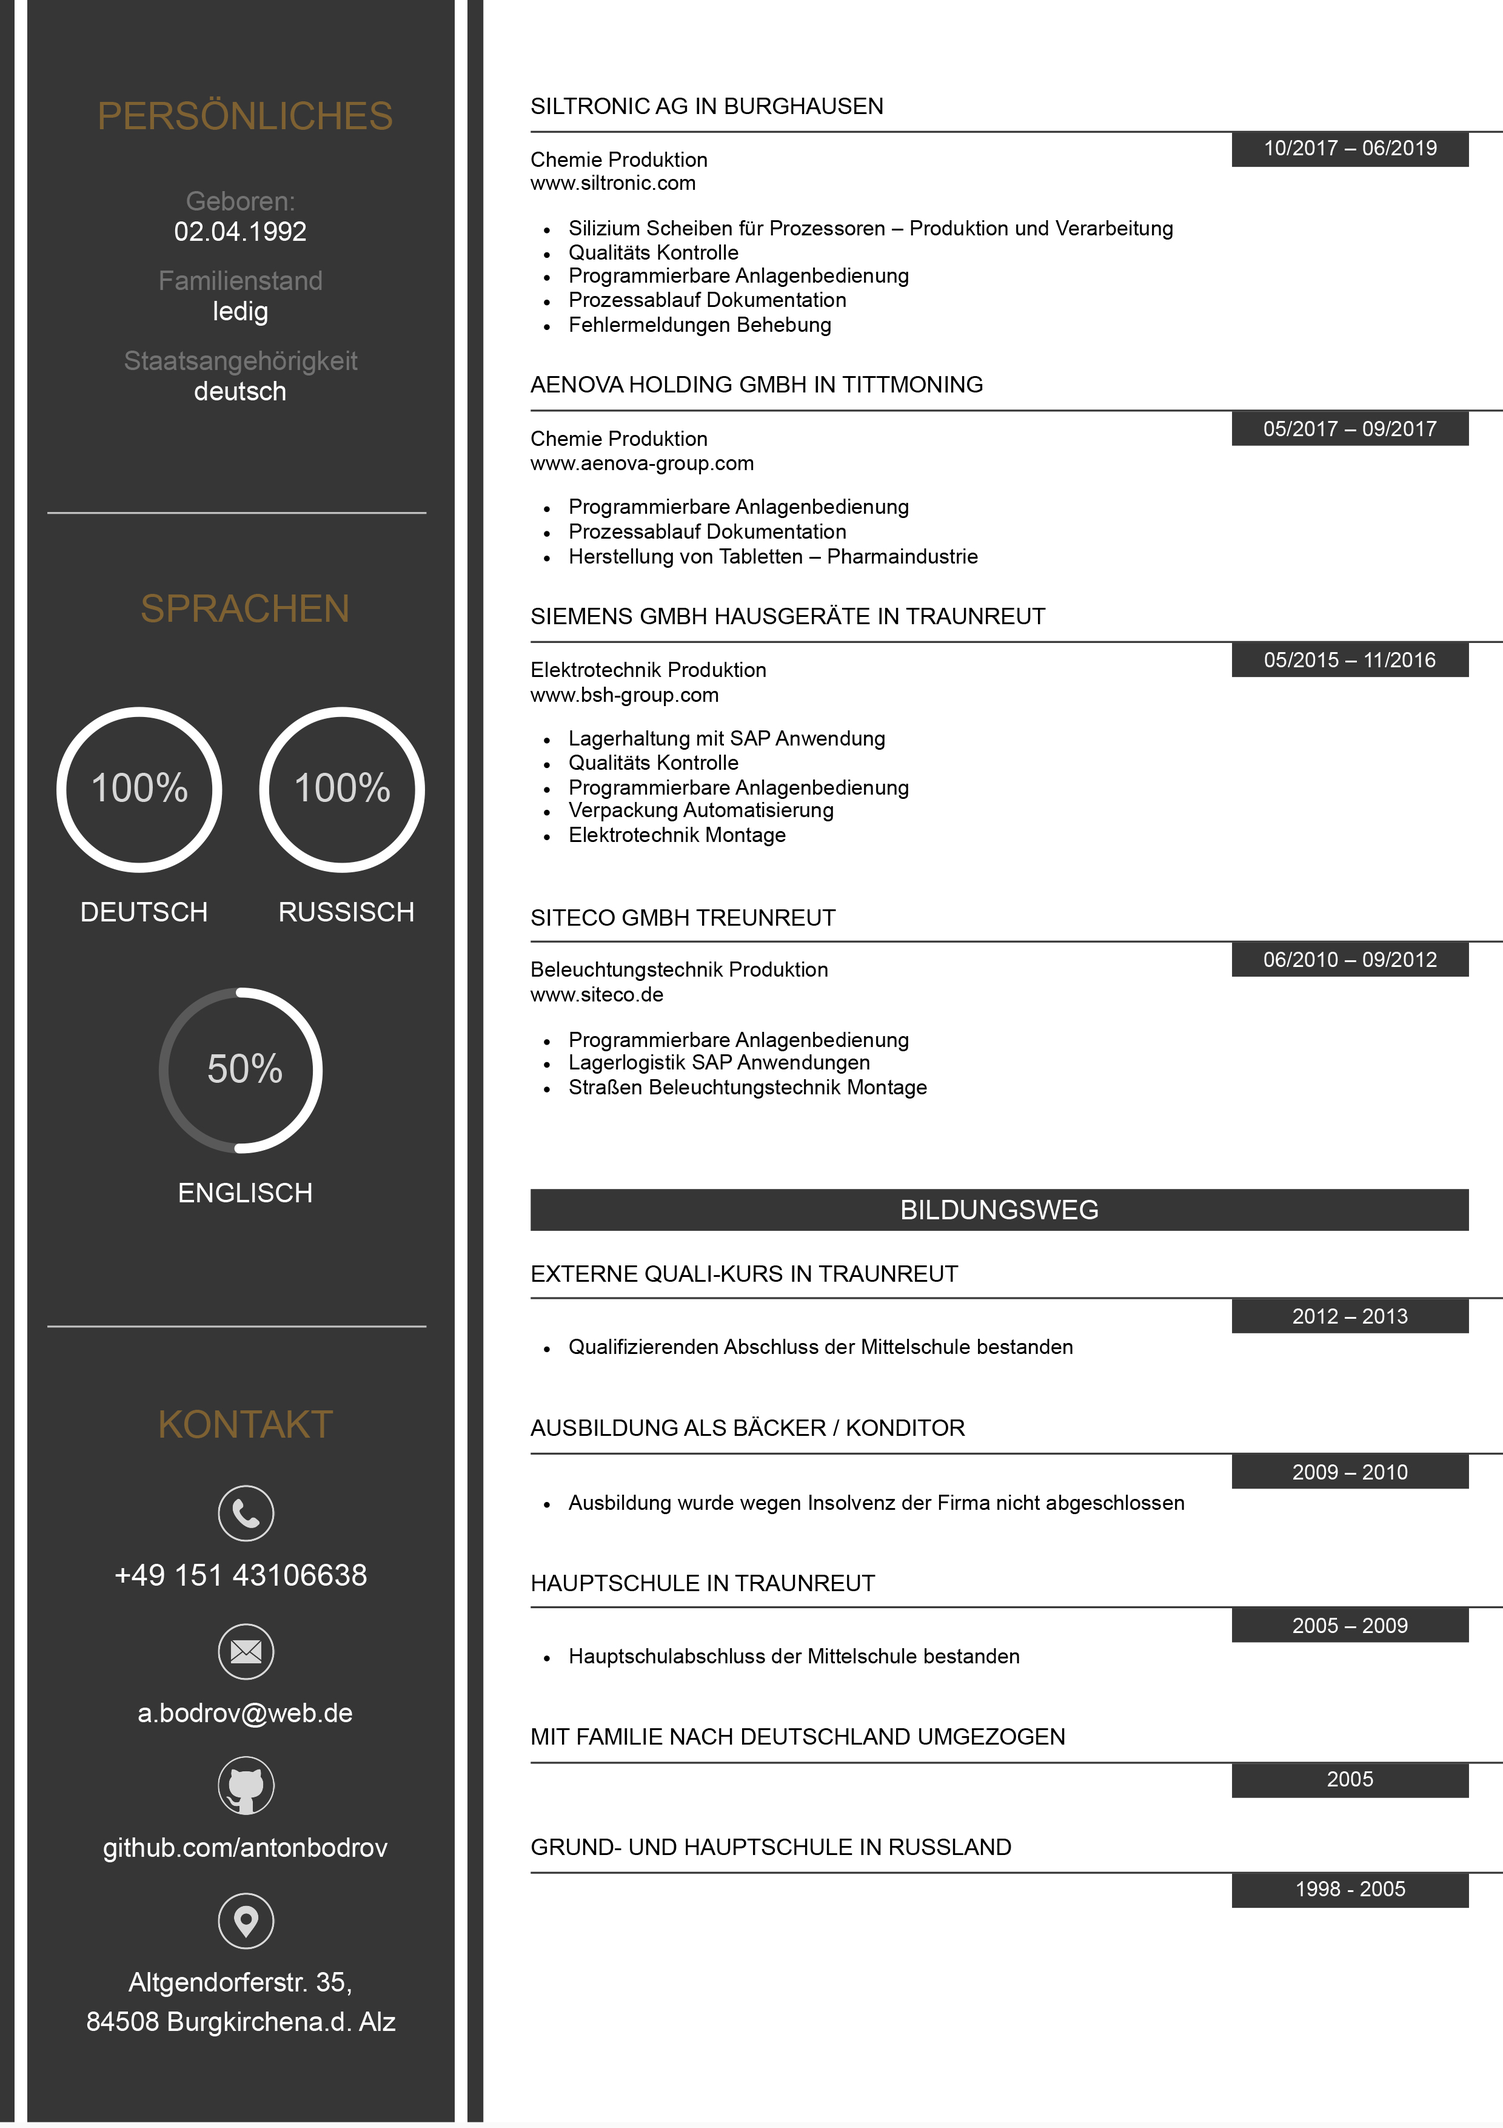
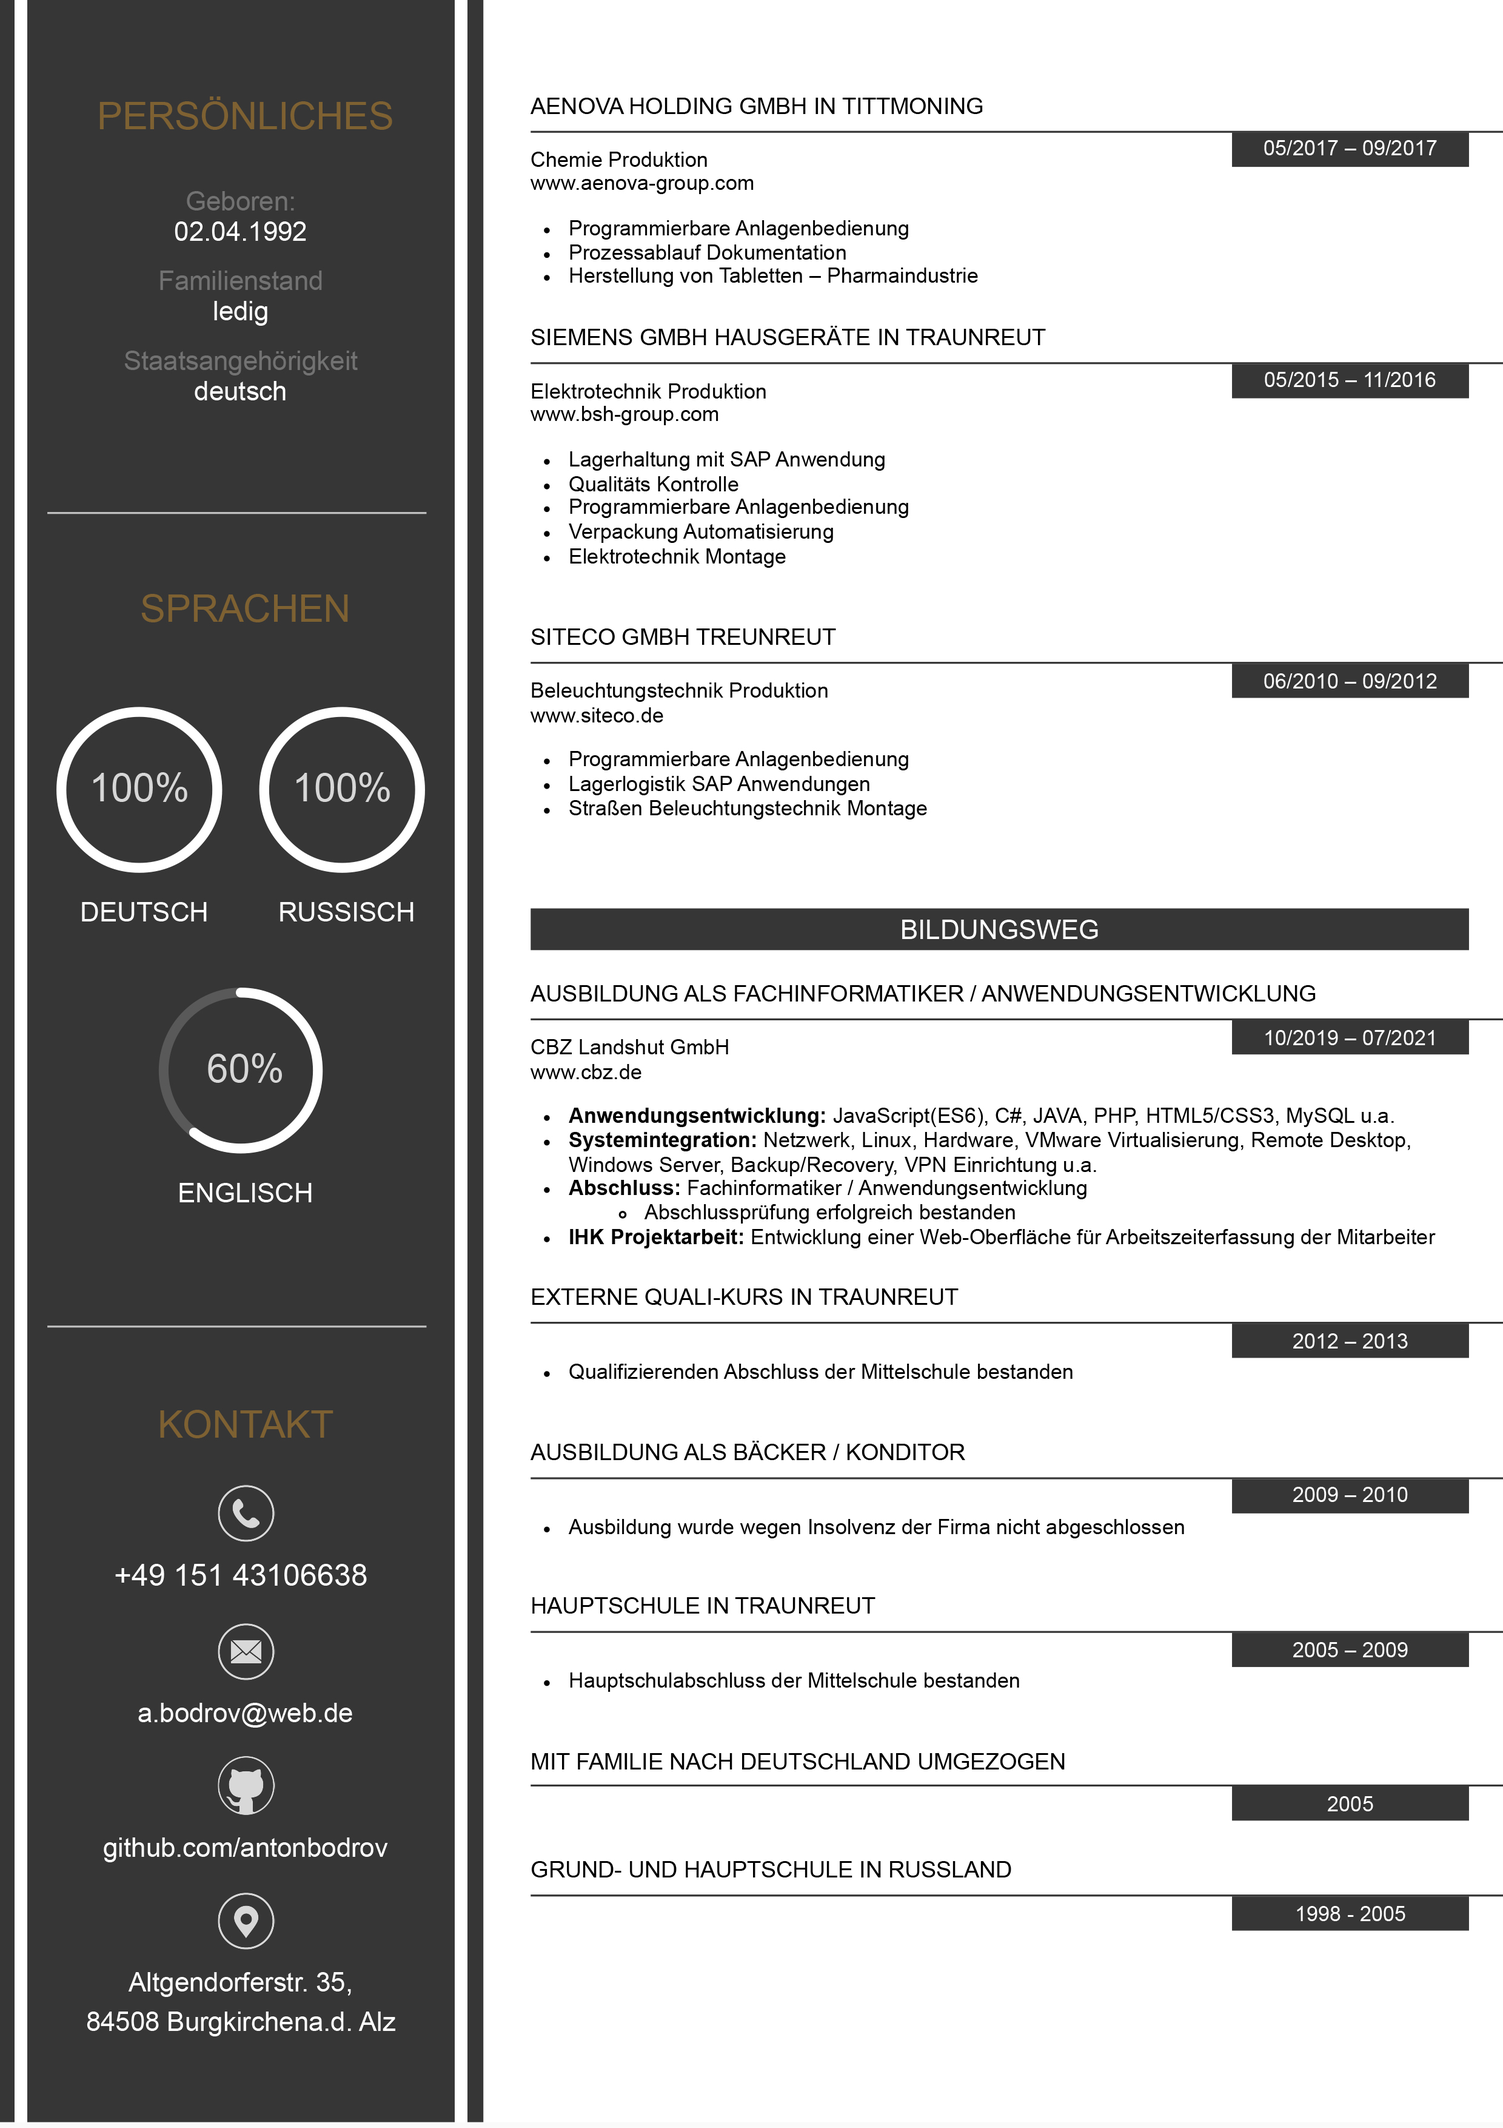
update

diff --git a/index.html b/index.html
@@ -28,12 +28,12 @@
         <div class="page">
             <div class="vorlage_deckblatt">
                 <div class="content_deckblatt">
-                    <img class="deckblatt_foto" src="img/AB_Foto.png" alt="Anton Bodrov" />
+                    <img class="deckblatt_foto" src="img/AB_Foto2.png" alt="Anton Bodrov" />
                     <h1 class="deckblatt_header">ANTON BODROV</h1>
                     <h6 class="deckblatt_header">SOFTWARE ENTWICKLER</h6>
 
                     <p class="deckblatt_datum" style="font-size: 45px">LEBENSLAUF</p>
-                    <p id="datum" style="width: 300px; margin-left: -44px">Burgkirchen,</p>
+                    <p id="datum" style="width: 300px; margin-left: -44px">München,</p>
 
                     <p class="deckblatt_kontaktInfo">
                         Anton Bodrov<br />Altgendorferstr. 35<br />84508 Burgkirchen<br /><br />Email:
@@ -105,10 +105,10 @@
                                 <path class="circle-bg" d="M18 2.0845
                         a 15.9155 15.9155 0 0 1 0 31.831
                         a 15.9155 15.9155 0 0 1 0 -31.831" />
-                                <path class="circle" stroke-dasharray="50, 100" d="M18 2.0845
+                                <path class="circle" stroke-dasharray="60, 100" d="M18 2.0845
                         a 15.9155 15.9155 0 0 1 0 31.831
                         a 15.9155 15.9155 0 0 1 0 -31.831" />
-                                <text x="19" y="20.35" class="percentage">50%</text>
+                                <text x="19" y="20.35" class="percentage">60%</text>
                             </svg>
                             <p class="info_block_text">ENGLISCH</p>
                         </div>
@@ -131,8 +131,42 @@
                     <div>
                         <!-- <h1 style="font-weight: 400; text-align: right; font-size: 35px; padding-top: 50px">ANTON<br />BODROV</h1> -->
                         <p style="font-size: 14px; margin-left: 280px; padding-top: 50px"><span
-                                style="padding: 3px 207px; color: white; background-color: #363636">AKTUELLES</span></p>
+                                style="padding: 3px 178px; color: white; background-color: #363636">PRAXISERFAHRUNG</span></p>
                     </div>
+
+
+
+                    <div style="margin-left: 280px; margin-top: 20px">
+                        <p style="font-size: 12px">IVANA MEDIC ALS CONTENT CREATOR</p>
+                        <div class="line3"></div>
+
+                        <div
+                            style="margin-left: 370px; width: 125px; height: 18px; display: flex; justify-content: center; align-items: center; background: #363636">
+                            <p style="font-size: 11px; color: white; text-align: center">05/2023 – 07/2023</p>
+                        </div>
+
+                        <div style="margin-top: -10px">
+                            <p style="font-size: 11px">
+                                Erstellung von Inhalten auf Social-Media-Plattformen <br />
+                                <a target="_blank" href="https://ivanamedic.de/">www.ivanamedic.de</a>
+                                <br>
+                                <a target="_blank" href="https://www.tiktok.com/@ivana.medic">Ivana Medic - TikTok</a>
+                            </p>
+                        </div>
+                        <ul style="margin-left: -20px; font-size: 11px">
+                            <li>
+                                <b>Erfahrung:</b>
+                                <ul>
+                                    <li>Aufbau und Pflege einer Online-Präsenz auf Plattformen wie Instagram, TikTok</li>
+                                    <li>Erstellung für die definierte Strategie nötigen Content, Bilder, Videos, Texte und Co.</li>
+                                </ul>
+                            </li>
+                        </ul>
+                    </div>
+
+
+
+
 
                     <div style="margin-left: 280px; margin-top: 20px">
                         <p style="font-size: 12px">DEVHEROES GMBH ALS ANWENDUNGSENTWICKLER</p>
@@ -167,41 +201,13 @@
                         </ul>
                     </div>
 
-                    <div style="margin-left: 280px; margin-top: 20px">
-                        <p style="font-size: 12px">AUSBILDUNG ALS FACHINFORMATIKER / ANWENDUNGSENTWICKLUNG</p>
-                        <div class="line3"></div>
-                        <div
-                            style="margin-left: 370px; width: 125px; height: 18px; display: flex; justify-content: center; align-items: center; background: #363636">
-                            <p style="font-size: 11px; color: white; text-align: center">10/2019 – 07/2021</p>
-                        </div>
-                        <div style="margin-top: -10px">
-                            <p style="font-size: 11px">
-                                CBZ Landshut GmbH <br />
-                                <a target="_blank" href="http://www.cbz.de">www.cbz.de</a>
-                            </p>
-                        </div>
-                        <ul style="margin-left: -20px; font-size: 11px">
-                            <li><b>Anwendungsentwicklung:</b> JavaScript(ES6), C#, JAVA, PHP, HTML5/CSS3, MySQL u.a.
-                            </li>
-                            <li><b>Systemintegration:</b> Netzwerk, Linux, Hardware, VMware Virtualisierung, Remote
-                                Desktop, Windows Server, Backup/Recovery, VPN Einrichtung u.a.</li>
-                            <!-- <li><b>CMS:</b> Wordpress, Tilda, TYPO3</li>
-                                <li><b>Development Tools:</b> Visual Studio Code IDE, Android Studio IDE, NetBeans IDE</li> -->
-                            <li><b>Abschluss:</b> Fachinformatiker / Anwendungsentwicklung <br>
-                                <ul>
-                                    <li> Abschlussprüfung erfolgreich bestanden</li>
-                                </ul> </b>
-                            </li>
-                            <li><b>IHK Projektarbeit:</b> Entwicklung einer Web-Oberfläche für Arbeitszeiterfassung der
-                                Mitarbeiter</b></li>
-                        </ul>
-                    </div>
+                    
 
-                    <div>
+                    <!-- <div>
                         <p style="font-size: 14px; margin-left: 280px; margin-top: 50px"><span
                                 style="padding: 3px 178px; color: white; background-color: #363636">PRAXISERFAHRUNG</span>
                         </p>
-                    </div>
+                    </div> -->
 
                     <div style="margin-left: 280px; margin-top: 20px">
                         <p style="font-size: 12px">CTS KG ALS ANWENDUNGSENTWICKLER</p>
@@ -244,7 +250,7 @@
                         <div class="line3"></div>
                         <div
                             style="margin-left: 370px; width: 125px; height: 18px; display: flex; justify-content: center; align-items: center; background: #363636">
-                            <p style="font-size: 11px; color: white; text-align: center">05/2015 – 01/2023</p>
+                            <p style="font-size: 11px; color: white; text-align: center">05/2015 – 04/2023</p>
                         </div>
                         <div style="margin-top: -10px">
                             <p style="font-size: 11px">
@@ -288,6 +294,29 @@
                                     <li>Entwicklung einer Web-Oberfläche für Arbeitszeiterfassung der Mitarbeiter</li>
                                 </ul>
                             </li>
+                        </ul>
+                    </div>
+
+                    <div style="margin-left: 280px; margin-top: 20px">
+                        <p style="font-size: 12px">SILTRONIC AG IN BURGHAUSEN</p>
+                        <div class="line3"></div>
+                        <div
+                            style="margin-left: 370px; width: 125px; height: 18px; display: flex; justify-content: center; align-items: center; background: #363636">
+                            <p style="font-size: 11px; color: white; text-align: center">10/2017 – 06/2019</p>
+                        </div>
+                        <div style="margin-top: -10px">
+                            <p style="font-size: 11px">
+                                Chemie Produktion
+                                <br />
+                                <a target="_blank" href="http://www.siltronic.com/">www.siltronic.com</a>
+                            </p>
+                        </div>
+                        <ul style="margin-left: -20px; font-size: 11px">
+                            <li>Silizium Scheiben für Prozessoren – Produktion und Verarbeitung</li>
+                            <li>Qualitäts Kontrolle</li>
+                            <li>Programmierbare Anlagenbedienung</li>
+                            <li>Prozessablauf Dokumentation</li>
+                            <li>Fehlermeldungen Behebung</li>
                         </ul>
                     </div>
 
@@ -357,10 +386,10 @@
                                 <path class="circle-bg" d="M18 2.0845
                         a 15.9155 15.9155 0 0 1 0 31.831
                         a 15.9155 15.9155 0 0 1 0 -31.831" />
-                                <path class="circle" stroke-dasharray="50, 100" d="M18 2.0845
+                                <path class="circle" stroke-dasharray="60, 100" d="M18 2.0845
                         a 15.9155 15.9155 0 0 1 0 31.831
                         a 15.9155 15.9155 0 0 1 0 -31.831" />
-                                <text x="19" y="20.35" class="percentage">50%</text>
+                                <text x="19" y="20.35" class="percentage">60%</text>
                             </svg>
                             <p class="info_block_text">ENGLISCH</p>
                         </div>
@@ -381,30 +410,9 @@
                 <!-- START of Content -->
                 <div style="position: static; margin: 0; padding: 0; width: 20.2cm">
 
-                    <div style="margin-left: 280px; padding-top: 50px">
-                        <p style="font-size: 12px">SILTRONIC AG IN BURGHAUSEN</p>
-                        <div class="line3"></div>
-                        <div
-                            style="margin-left: 370px; width: 125px; height: 18px; display: flex; justify-content: center; align-items: center; background: #363636">
-                            <p style="font-size: 11px; color: white; text-align: center">10/2017 – 06/2019</p>
-                        </div>
-                        <div style="margin-top: -10px">
-                            <p style="font-size: 11px">
-                                Chemie Produktion
-                                <br />
-                                <a target="_blank" href="http://www.siltronic.com/">www.siltronic.com</a>
-                            </p>
-                        </div>
-                        <ul style="margin-left: -20px; font-size: 11px">
-                            <li>Silizium Scheiben für Prozessoren – Produktion und Verarbeitung</li>
-                            <li>Qualitäts Kontrolle</li>
-                            <li>Programmierbare Anlagenbedienung</li>
-                            <li>Prozessablauf Dokumentation</li>
-                            <li>Fehlermeldungen Behebung</li>
-                        </ul>
-                    </div>
+                    
 
-                    <div style="margin-left: 280px; margin-top: 20px">
+                    <div style="margin-left: 280px; padding-top: 50px">
                         <p style="font-size: 12px">AENOVA HOLDING GMBH IN TITTMONING</p>
                         <div class="line3"></div>
                         <div
@@ -472,6 +480,36 @@
                         <p style="font-size: 14px; margin-left: 280px; margin-top: 50px"><span
                                 style="padding: 3px 195px; color: white; background-color: #363636">BILDUNGSWEG</span>
                         </p>
+                    </div>
+
+                    <div style="margin-left: 280px; margin-top: 20px">
+                        <p style="font-size: 12px">AUSBILDUNG ALS FACHINFORMATIKER / ANWENDUNGSENTWICKLUNG</p>
+                        <div class="line3"></div>
+                        <div
+                            style="margin-left: 370px; width: 125px; height: 18px; display: flex; justify-content: center; align-items: center; background: #363636">
+                            <p style="font-size: 11px; color: white; text-align: center">10/2019 – 07/2021</p>
+                        </div>
+                        <div style="margin-top: -10px">
+                            <p style="font-size: 11px">
+                                CBZ Landshut GmbH <br />
+                                <a target="_blank" href="http://www.cbz.de">www.cbz.de</a>
+                            </p>
+                        </div>
+                        <ul style="margin-left: -20px; font-size: 11px">
+                            <li><b>Anwendungsentwicklung:</b> JavaScript(ES6), C#, JAVA, PHP, HTML5/CSS3, MySQL u.a.
+                            </li>
+                            <li><b>Systemintegration:</b> Netzwerk, Linux, Hardware, VMware Virtualisierung, Remote
+                                Desktop, Windows Server, Backup/Recovery, VPN Einrichtung u.a.</li>
+                            <!-- <li><b>CMS:</b> Wordpress, Tilda, TYPO3</li>
+                                <li><b>Development Tools:</b> Visual Studio Code IDE, Android Studio IDE, NetBeans IDE</li> -->
+                            <li><b>Abschluss:</b> Fachinformatiker / Anwendungsentwicklung <br>
+                                <ul>
+                                    <li> Abschlussprüfung erfolgreich bestanden</li>
+                                </ul> </b>
+                            </li>
+                            <li><b>IHK Projektarbeit:</b> Entwicklung einer Web-Oberfläche für Arbeitszeiterfassung der
+                                Mitarbeiter</b></li>
+                        </ul>
                     </div>
 
                     <div style="margin-left: 280px; margin-top: 20px">
@@ -605,10 +643,10 @@
                                 <path class="circle-bg" d="M18 2.0845
                         a 15.9155 15.9155 0 0 1 0 31.831
                         a 15.9155 15.9155 0 0 1 0 -31.831" />
-                                <path class="circle" stroke-dasharray="50, 100" d="M18 2.0845
+                                <path class="circle" stroke-dasharray="60, 100" d="M18 2.0845
                         a 15.9155 15.9155 0 0 1 0 31.831
                         a 15.9155 15.9155 0 0 1 0 -31.831" />
-                                <text x="19" y="20.35" class="percentage">50%</text>
+                                <text x="19" y="20.35" class="percentage">60%</text>
                             </svg>
                             <p class="info_block_text">ENGLISCH</p>
                         </div>

diff --git a/css/main.css b/css/main.css
@@ -102,9 +102,10 @@ p {
     text-align: center;
 }
 .deckblatt_foto {
-    padding-top: 96px;
+    margin-top: 96px;
     width: 212px;
     height: auto;
+    border-radius: 10px;
     margin-bottom: 20px;
     -webkit-touch-callout: none; /* iOS Safari */
     -webkit-user-select: none; /* Safari */
